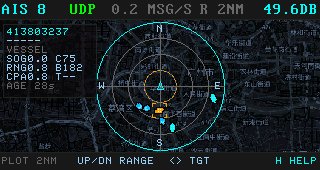
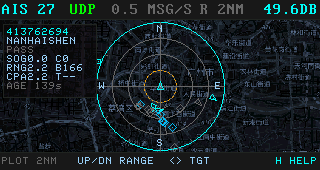
Detail the AIS Class B boat and refresh screenshots

diff --git a/src/ui/ais_portrait.cpp b/src/ui/ais_portrait.cpp
@@ -612,13 +612,27 @@ void drawSmallBoat(Canvas& c) {
     c.hline(58, 152, WATERLINE, 0x3C9E);
     c.hline(66, 146, deck + 8, 0x02AA);
 
-    // Cabin and raked windscreen.
-    c.rect(84, 78, 118, deck - 1, 0xDEFB);
-    c.outline(84, 78, 118, deck - 1, c.dim);
-    c.rect(87, 81, 115, 87, 0x18E3);
-    c.hline(89, 113, 82, 0x39E7);
-    c.hline(84, 118, 78, c.highlight);
-    c.rect(86, 90, 116, deck - 1, 0x39C7);
+    // Cabin with a paned windscreen.
+    c.rect(82, 78, 120, deck - 1, 0xDEFB);
+    c.outline(82, 78, 120, deck - 1, c.dim);
+    for (int x = 85; x <= 114; x += 7) {
+        c.rect(x, 81, x + 4, 86, 0x18E3);
+        c.vline(x + 4, 81, 86, 0xD69A);
+    }
+    c.hline(82, 120, 78, c.highlight);
+    c.rect(84, 90, 118, deck - 1, 0x39C7);
+
+    // Flybridge and railing.
+    c.rect(92, 70, 112, 78, 0xCE79);
+    c.outline(92, 70, 112, 78, c.dim);
+    c.hline(92, 112, 70, c.highlight);
+    for (int x = 92; x <= 112; x += 4) c.put(x, 69, 0x9CF3);
+
+    // Foredeck hatch and stern flag.
+    c.rect(128, 91, 136, 93, 0x9CF3);
+    c.outline(128, 91, 136, 93, c.dim);
+    c.vline(70, 82, 94, c.dim);
+    c.rect(71, 82, 74, 84, c.amber);
 
     // Console, antenna and outboard.
     c.rect(120, 86, 132, deck - 1, 0x39C7);

diff --git a/README.md b/README.md
@@ -478,9 +478,9 @@ LIST -> PLOT -> DOSSIER -> CONSOLE -> LIST
 - **LIST** — MMSI, name, SOG, COG, distance and age, nearest first. Class A,
   Class B, AtoN and base stations use different markers.
 - **PLOT** — north-up PPI with a cached map background, four range rings,
-  compass ticks, 8-bit top-down pixel ships (cargo / tanker / passenger /
-  Class B, plus AtoN and base-station glyphs), COG vectors, ten-point trails,
-  a 0.5 NM CPA guard ring and a selected-target card. `Up` / `Down` zooms
+  compass ticks, COG vectors, ten-point trails, a 0.5 NM CPA guard ring and
+  a selected-target card. Class A ships are oriented triangles, Class B
+  diamonds, AtoN circles and base stations squares. `Up` / `Down` zooms
   from 0.5 to 32 NM (starts at 2 NM).
 - **DOSSIER** — 200x170 porthole instrument: gradient sky/sea, compass bezel,
   heading bug and a type-specific side-view ship (cargo, tanker, passenger,
